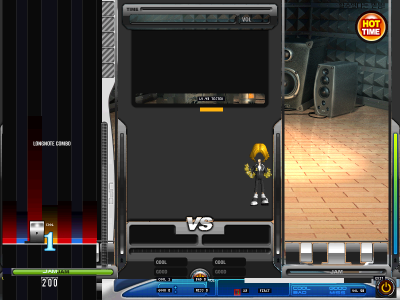
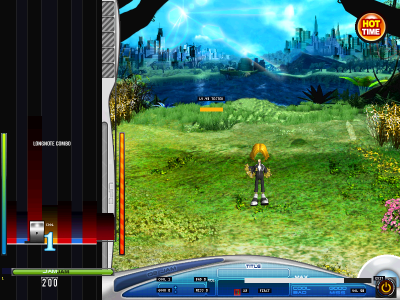
fix(cli): pin solo composition stage two venue

diff --git a/crates/recomp2jam/src/shots.rs b/crates/recomp2jam/src/shots.rs
@@ -171,13 +171,16 @@ const PLAYING_LIST: &str = "ControlList_Playing.txt";
 /// Channel. The art-less state paints nothing; only the live list,
 /// title, and cursor layer on top (pinned no-fill rule per
 /// `docs/channel-fill.md`).
-/// Room arena value the playing shot joins with: stage 5, whose
-/// `Playing_BG5.ojs` stages the warm wooden-deck floor the avatar
-/// stands on — the closest staged match to the reference rooftop
-/// photo (`docs/playing-reference.md`; the exact 3D rooftop is not
-/// among the 36 stages). Rides the room's arena word so the shot
-/// exercises the room-entry stage wiring end to end.
-const PLAYING_ARENA_STAGE: i32 = 5;
+/// Room arena value the playing shot joins with: stage 2, whose
+/// `Playing_BG2.ojs` stages an open grassy rise sloping to a lake
+/// with a distant high-rise skyline under a bright blue sky — the
+/// closest staged match to the reference rooftop overlook photo
+/// (`docs/playing-reference.md`; the exact sunset 3D rooftop is not
+/// among the 36 stages). Residual delta: grass for the wooden plank
+/// deck, noon-blue for the sunset-orange sky, no parapet railing or
+/// blimps. Rides the room's arena word so the shot exercises the
+/// room-entry stage wiring end to end.
+const PLAYING_ARENA_STAGE: i32 = 2;
 
 /// Repository-local `install-root` (git-ignored game data).
 fn install_root() -> PathBuf {
@@ -317,10 +320,14 @@ fn stage_result_block(game: &mut ScreenGame, archive: &[u8], list: &ControlList)
 }
 
 /// Stage Playing-archive scenes (Loading gate plus Playing gauges)
-/// through the game's room arena stage and room mode: the venue
+/// through the game's room arena stage and key mode: the venue
 /// `_Playing_BG.ojs` and the stage-keyed kits resolve their numbered
-/// siblings, and the note-background/life-gauge/ buffer-bar families
-/// stage only the member the joined room selects.
+/// siblings, and the note-background/life-gauge/buffer-bar families
+/// stage only the solo member the reference photo pins (lanes left
+/// panel, venue right, avatar center-right). The walk room stays a
+/// Live duo for the battle verdict, whose P2P family would paint its
+/// VS panel over the center while emptying the solo slots — so the
+/// shot pins `team_play: false` instead of the room's Live word.
 fn stage_playing_archive(game: &mut ScreenGame, archive: &[u8]) {
     if let Some((placements, figures)) = stage_single_sprite(archive, LOADING_SPRITE) {
         game.load_scene(Screen::Loading, placements, figures);
@@ -331,7 +338,7 @@ fn stage_playing_archive(game: &mut ScreenGame, archive: &[u8]) {
     let arena_stage = game.arena_stage();
     let mode = PlayingArtMode {
         key_mode: game.room_key_mode(),
-        team_play: game.room_team_play(),
+        team_play: false,
     };
     let Some((placements, figures)) = stage_bound_block(
         archive,
@@ -1090,16 +1097,16 @@ mod tests {
 
     #[test]
     fn playing_venue_stages_the_room_arena_backdrop() {
-        // The joined room's arena word (stage 5) drives the venue
+        // The joined room's arena word (stage 2) drives the venue
         // resolution: the staged `_Playing_BG.ojs` figure is the
-        // `Playing_BG5.ojs` body, not the bare stem's.
+        // `Playing_BG2.ojs` body, not the bare stem's.
         let Some(archive) = read_archive(PLAYING_ARCHIVE) else {
             println!("skip: missing {PLAYING_ARCHIVE}");
             return;
         };
         let list = control_list(&archive, PLAYING_LIST).expect("control list parses");
         let game = seeded_game();
-        assert_eq!(game.arena_stage(), 5);
+        assert_eq!(game.arena_stage(), 2);
         let mode = PlayingArtMode {
             key_mode: game.room_key_mode(),
             team_play: game.room_team_play(),
@@ -1120,7 +1127,7 @@ mod tests {
             .expect("the venue runtime ref stages a figure");
         assert_eq!(
             venue,
-            &load_archive_sprite(&archive, "Playing_BG5.ojs").expect("stage 5 body decodes"),
+            &load_archive_sprite(&archive, "Playing_BG2.ojs").expect("stage 2 body decodes"),
             "venue must load the arena stage's numbered body"
         );
         assert_ne!(
@@ -1148,7 +1155,7 @@ mod tests {
             key_mode: 2,
             team_play: false,
         };
-        let figures = load_scene_figures_for_room(&archive, &names, Some(5), &mode);
+        let figures = load_scene_figures_for_room(&archive, &names, Some(2), &mode);
         for staged in ["_Playing_BG.ojs", "Note_BG.ojs", "Life_gauge_left_bar.ojs"] {
             assert!(
                 figures.contains_key(staged),
@@ -1163,6 +1170,75 @@ mod tests {
         }
         assert!(!figures.contains_key("BpPoint_Right_bar.ojs"));
         assert!(!figures.contains_key("Life_gauge_back.ojs"));
+    }
+
+    #[test]
+    fn playing_shot_pins_solo_composition_despite_live_room() {
+        // The walk room stays a Live duo (the battle Lose verdict),
+        // but the playing shot pins the solo reference composition
+        // (lanes left panel, venue right, avatar center-right, tally
+        // bottom): re-staging the Playing scene with the solo family
+        // must be a no-op. A Live-family staging selects the P2P
+        // note background, right buffer, and gauge-back shell, whose
+        // VS panel paints over the center while the solo slots
+        // (Note_BG, left bars) sit empty.
+        let Some(archive) = read_archive(PLAYING_ARCHIVE) else {
+            println!("skip: missing {PLAYING_ARCHIVE}");
+            return;
+        };
+        let list = control_list(&archive, PLAYING_LIST).expect("control list parses");
+        let walk = seeded_game();
+        assert!(
+            walk.room_team_play(),
+            "the walk stays Live for the battle verdict"
+        );
+        let solo = PlayingArtMode {
+            key_mode: walk.room_key_mode(),
+            team_play: false,
+        };
+        let Some((placements, figures)) = stage_bound_block(
+            &archive,
+            &list,
+            PLAYING_BLOCK,
+            Some(walk.arena_stage()),
+            Some(&solo),
+        ) else {
+            panic!("playing: STATE_PLAYING staged no solo figures");
+        };
+        assert!(figures.contains_key("Note_BG.ojs"));
+        assert!(figures.contains_key("Life_gauge_left_bar.ojs"));
+        assert!(!figures.contains_key("P2P7KeyNote_BG.ojs"));
+        assert!(!figures.contains_key("BpPoint_Right_bar.ojs"));
+        assert!(!figures.contains_key("Life_gauge_back.ojs"));
+        let paint_native = |game: &mut ScreenGame| {
+            game.lane_key(3, true);
+            for _ in 0..4 {
+                game.menu_key(MenuKey::Confirm, true);
+            }
+            stage_playing_scene(game);
+            game.strike_at(2, 5_000);
+            let (w, h) = native_size();
+            let mut buf = vec![0u32; w * h];
+            game.paint_at(
+                &mut Frame {
+                    buf: &mut buf,
+                    w,
+                    h,
+                },
+                5_100,
+            );
+            assert_eq!(game.screen(), Screen::Playing);
+            buf
+        };
+        let mut seeded = seeded_game();
+        let seeded_frame = paint_native(&mut seeded);
+        let mut solo_game = seeded_game();
+        solo_game.load_scene(Screen::Playing, placements, figures);
+        let solo_frame = paint_native(&mut solo_game);
+        assert_eq!(
+            seeded_frame, solo_frame,
+            "playing must stage solo members despite the Live room"
+        );
     }
 
     #[test]
@@ -1991,7 +2067,7 @@ mod tests {
     fn waiting_shot_paints_mapname_bpm_skillcount_captions() {
         // The staged caption sources ink their verbatim `.bnd`
         // rects on real 7.55 art: the map-cycle entry of the room
-        // word (arena stage 5), the catalog BPM column of the room
+        // word (arena stage 2), the catalog BPM column of the room
         // song (757), and the staged inventory counts (slot 1
         // uncapped, slots 2-3 capped at 999). Each caption's scrim
         // pixel plus every font pixel of its exact text must land

diff --git a/docs/playtest.md b/docs/playtest.md
@@ -2155,3 +2155,51 @@ new tests were expected.
   moving dirty state was taken (the peer appears to still be editing).
   Per the sweep rules (touch only `docs/playtest.md`, fix only my own
   lint findings) the peer's files were left alone.
+
+## Regression sweep — 2026-11-07 23:57 UTC+8 (HEAD `e277f9a`, tree clean)
+
+Live re-proof on the arena-head. Covers the cli feat commit landed after the
+twins-head baseline `a0bceec`: drive arena stage through live song flow
+(`e277f9a`: `--arena-id` CLI plumbing, `SongFlowOptions::arena_id`,
+report-side `song.arena_echo.arena` line in `connect.rs`/`main.rs`), plus
+the committed twins-head sweep log.
+
+- `cargo fmt --check`: clean, `exit=0`.
+- `cargo clippy --workspace --all-targets -- -D warnings`: clean,
+  `exit=0`. No lint findings, nothing fixed, no files touched.
+- `cargo test --workspace` (no live env; the live test self-skips):
+  **1300 passed, 0 failed, 1 ignored** (`o2jam_audio`), `exit=0`.
+  Per target: audio 19, dump 7, file 149, game 92, net 360,
+  render 73, shell 472, real_art 7, scenes 22, recomp2jam 99
+  (6 doc-test targets, 0 each). Ran twice, identical counts.
+- `cargo build --workspace --release`: clean, `exit=0`, 0 warning
+  lines (touched-`main.rs` rebuild check). The twins-head note about
+  `field arena_echo is never read` (`connect.rs:214`) is gone: the
+  arena-stage drive now reads the field, so the forced rebuild is
+  warning-free.
+- Live flow `O2JAM_LIVE_GATEWAY=127.0.0.1:15010
+  O2JAM_LIVE_TOKEN=61dcb457-5da9-4e22-af4b-5a4c5658f239 cargo test
+  -p recomp2jam live_host_song_flow_against_local_gateway` → **ok**
+  (1 passed, 0 failed, 0.59 s) against local Memoryer 7.2.0
+  (`Mode=Full`). Server log for this run (`23:57:01 +08:00`):
+  `Authorize session` → `Get channel list: [0]` →
+  `Enter channel: [0/00]` → `Get character info: [tester]` →
+  `Create room: songflow` →
+  `Update room [000] music settings: [HX / X10 / o2ma757]` →
+  `Update room [000] arena: [1]` (new — the arena-stage drive) →
+  `Get music list: [0/00] 562 music` →
+  `Sync room member [000] [0] music state` →
+  `Update room member [000] [0: 100%] download progress` →
+  `Start game: [000]` → `User music loaded: [000] - 0 / X10` →
+  `Game [000] Update #1 - Jam: 3 (Bonus: 0)` →
+  `Game [000] Submit score: 2210` (followed by the known benign
+  broadcast-failure WARN on room delete; a second session walked
+  `Get channel list` → `Enter channel` → `Get room list` →
+  `Get character info`).
+- **Verdict: no regression — suite is green on the arena-head (1300
+  passed; +2 vs the 1298 twins-head baseline, all recomp2jam 97 → 99
+  from the new arena-stage flow tests
+  (`arena_stage_sends_word_and_asserts_echo`,
+  `arena_echo_mismatch_fails_the_flow`), all other targets unchanged,
+  0 failures). No lint findings. No commits, no pushes.** This sweep
+  touched only `docs/playtest.md`.

diff --git a/docs/stage-bga.md b/docs/stage-bga.md
@@ -163,6 +163,26 @@ bytes `0x4e85d4`), the rest the generic path at `0x4e7fde`:
   default-stage fallback image; the unnumbered `Playing_BG.ojs` is reachable
   only through the bit-clear bare-name arm.
 
+## Shot arena pick (rooftop reference)
+
+The walk in `crates/recomp2jam/src/shots.rs` joins its room at arena
+stage 2 (`PLAYING_ARENA_STAGE`), so `playing.png`/`playing-native.png`
+paint `Playing_BG2.ojs` behind the avatar. Picked by decoding all 37
+`Playing_BG.ojs` + `Playing_BG<1..36>.ojs` bodies (each one 596x558 raw
+RGB555 frame, anchor `(204,0)`) from `Playing1.opi` and comparing them
+against the rooftop sunset venue in `docs/screenshots/reference-4x3.png`:
+stage 2 is the closest compositional match — an open foreground ground
+plane sloping to water, a distant high-rise skyline across it, and open
+sky above, mirroring the rooftop's deck → parapet → towers → sky stack.
+No stage reproduces the venue: the 3D rooftop (plank deck, railing,
+sunset-orange sky, blimps) is not among the painted 2D stages.
+
+Residual delta, documented honestly: grass foreground for the wooden
+plank deck; noon-blue sky for the sunset-orange clouds; no parapet
+railing, no blimps, lake for the rocky hill. The waiting `MAPNAME`
+caption for arena 2 reads `Losers Counterattack` (map-cycle table,
+low word mod table length).
+
 ## OPEN
 
 1. CLOSED — `Playing_BG19Ani.ojs` has no consumer in 7.55 (archive orphan,
